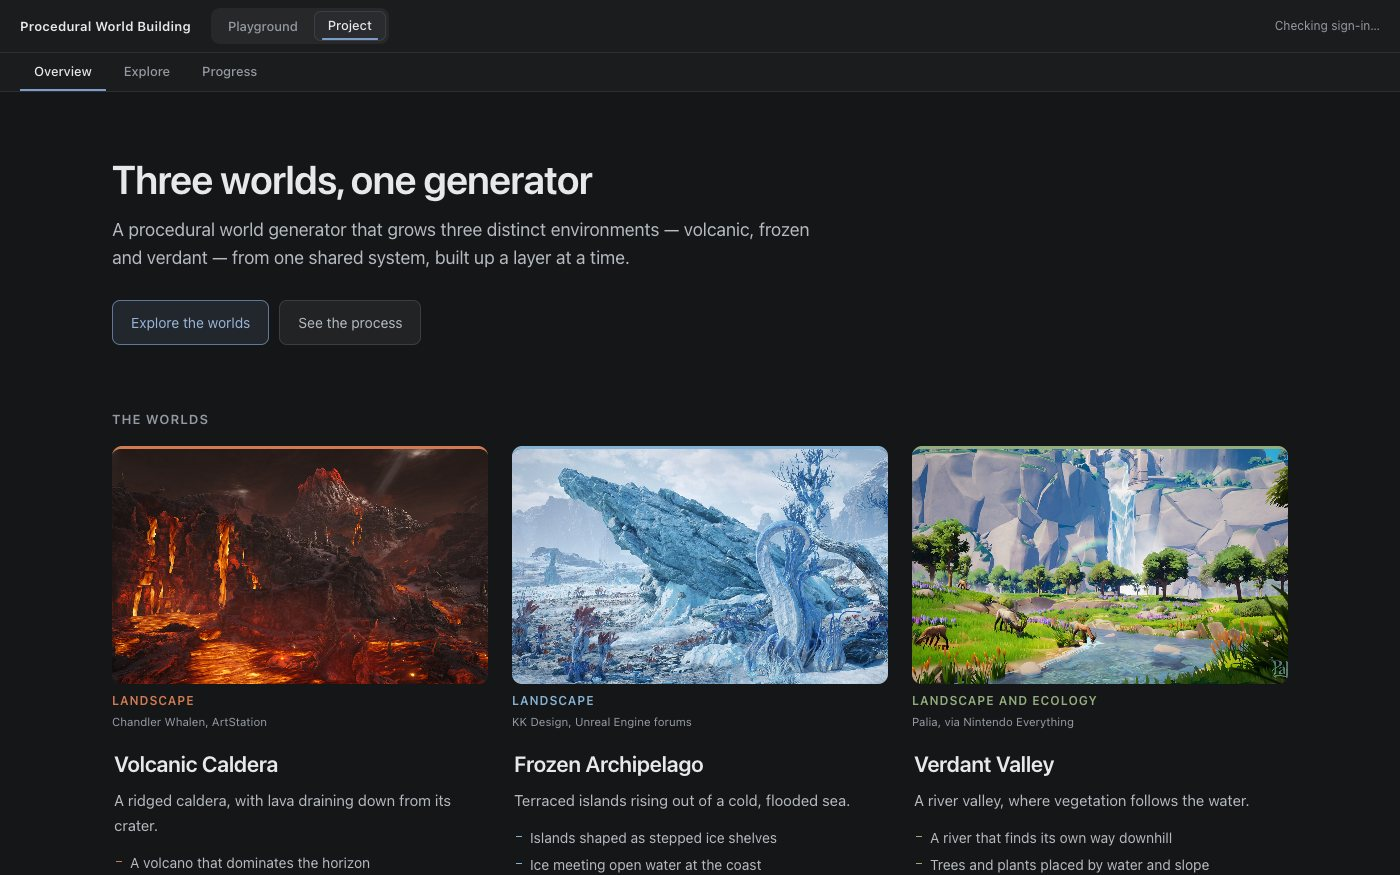
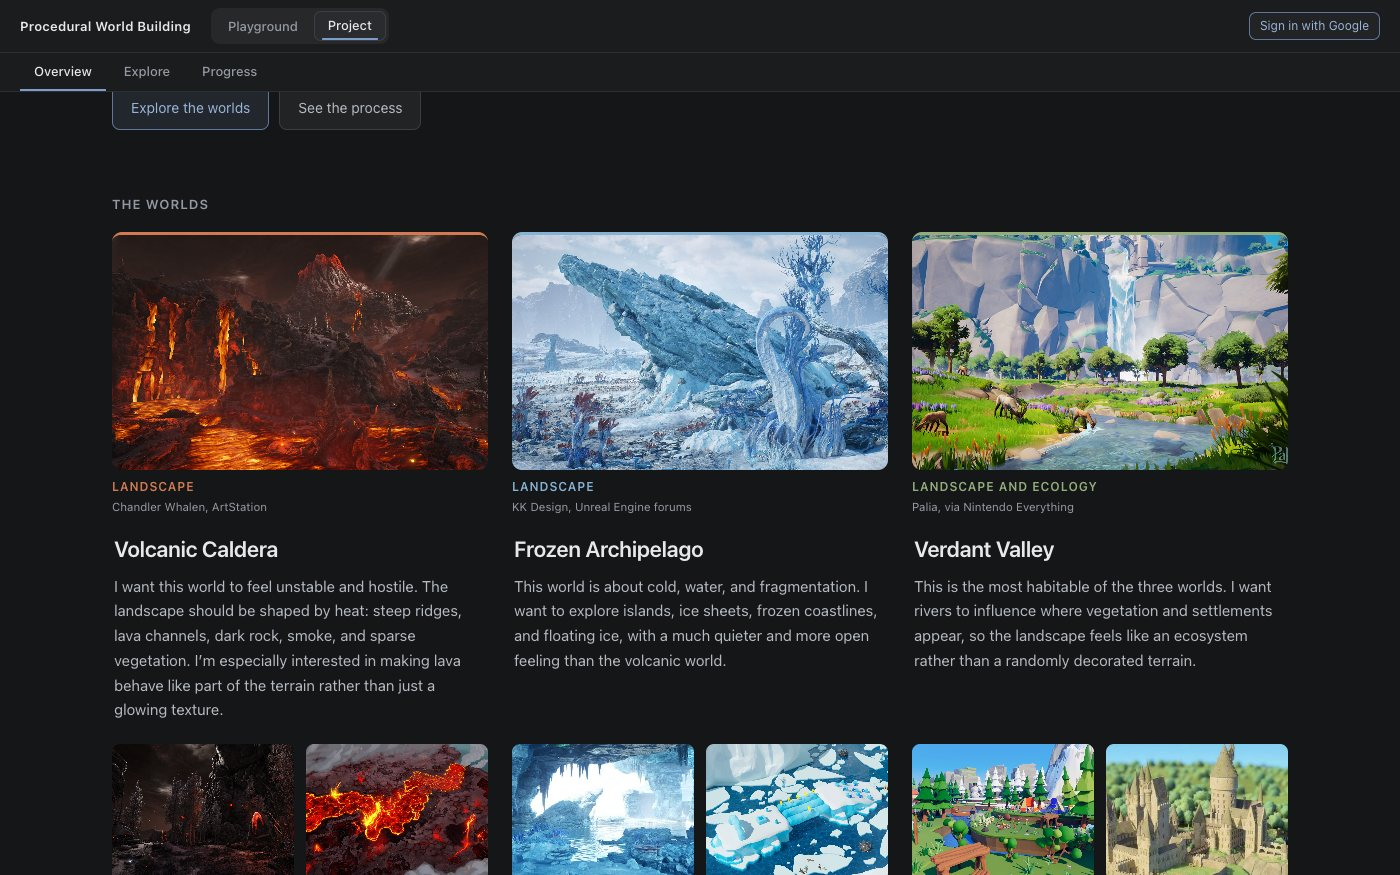
Give the Project Overview a voice of its own
The intro is now a short first-person statement: the worlds differ by
environmental condition — heat, cold, a livable middle — not by palette, and
those conditions are meant to reach the terrain, materials, water, vegetation,
placement and eventually how a player moves. Each card replaces its one-liner
and goal list with what the world is for. A possible-direction section follows
the board — islands a player travels between — and the closing call to action
is gone, since the header already offers Explore.

diff --git a/src/project/ProjectOverview.tsx b/src/project/ProjectOverview.tsx
@@ -13,8 +13,8 @@ type Reference = {
 type World = {
   id: 'volcanic' | 'frozen' | 'verdant'
   name: string
-  line: string
-  goals: string[]
+  /** In the first person: what this world is for, and what it is meant to explore. */
+  intent: string
   hero: Reference
   supporting: [Reference, Reference]
 }
@@ -32,12 +32,8 @@ const WORLDS: World[] = [
   {
     id: 'volcanic',
     name: 'Volcanic Caldera',
-    line: 'A ridged caldera, with lava draining down from its crater.',
-    goals: [
-      'A volcano that dominates the horizon',
-      'Lava that runs in channels, not scattered pools',
-      'Dark rock and a warm, ember-lit atmosphere',
-    ],
+    intent:
+      'I want this world to feel unstable and hostile. The landscape should be shaped by heat: steep ridges, lava channels, dark rock, smoke, and sparse vegetation. I’m especially interested in making lava behave like part of the terrain rather than just a glowing texture.',
     hero: {
       src: '/inspiration/volcanic/volcanic_2.jpg',
       role: 'Landscape',
@@ -62,12 +58,8 @@ const WORLDS: World[] = [
   {
     id: 'frozen',
     name: 'Frozen Archipelago',
-    line: 'Terraced islands rising out of a cold, flooded sea.',
-    goals: [
-      'Islands shaped as stepped ice shelves',
-      'Ice meeting open water at the coast',
-      'Floating ice and a pale, hazy horizon',
-    ],
+    intent:
+      'This world is about cold, water, and fragmentation. I want to explore islands, ice sheets, frozen coastlines, and floating ice, with a much quieter and more open feeling than the volcanic world.',
     hero: {
       src: '/inspiration/frozen/frozen_1.jpg',
       role: 'Landscape',
@@ -92,12 +84,8 @@ const WORLDS: World[] = [
   {
     id: 'verdant',
     name: 'Verdant Valley',
-    line: 'A river valley, where vegetation follows the water.',
-    goals: [
-      'A river that finds its own way downhill',
-      'Trees and plants placed by water and slope',
-      'Stylized low-poly detail, then settlements',
-    ],
+    intent:
+      'This is the most habitable of the three worlds. I want rivers to influence where vegetation and settlements appear, so the landscape feels like an ecosystem rather than a randomly decorated terrain.',
     hero: {
       src: '/inspiration/verdant/verdant_2.jpg',
       role: 'Landscape and ecology',
@@ -212,7 +200,25 @@ export function ProjectOverview({ navigate }: ProjectOverviewProps) {
     <ProjectLayout
       wide
       title="Three worlds, one generator"
-      lede="A procedural world generator that grows three distinct environments — volcanic, frozen and verdant — from one shared system, built up a layer at a time."
+      lede={
+        <>
+          <p>
+            I wanted the three worlds to feel different for more than just their color
+            palettes. Each one represents a different environmental condition: heat, cold,
+            and a more temperate, livable landscape.
+          </p>
+          <p>
+            I’m interested in how those conditions can affect the terrain itself, the
+            materials, water, vegetation, object placement, and eventually even the way a
+            player moves through the world.
+          </p>
+          <p>
+            For now, I’m building them one layer at a time, starting with the landscape.
+            Later, I want to explore how the worlds could connect through travel,
+            collection, or small puzzles.
+          </p>
+        </>
+      }
       aside={
         <div className="project-actions">
           <button type="button" className="project-button is-primary" onClick={explore}>
@@ -239,12 +245,7 @@ export function ProjectOverview({ navigate }: ProjectOverviewProps) {
 
               <div className="board-body">
                 <h3 className="board-name">{world.name}</h3>
-                <p className="board-line">{world.line}</p>
-                <ul className="board-goals">
-                  {world.goals.map((goal) => (
-                    <li key={goal}>{goal}</li>
-                  ))}
-                </ul>
+                <p className="board-intent">{world.intent}</p>
               </div>
 
               <div className="board-refs">
@@ -264,6 +265,16 @@ export function ProjectOverview({ navigate }: ProjectOverviewProps) {
         <p className="project-credit">
           Reference images are other artists' work, collected as inspiration and credited
           under each — not output of this project.
+        </p>
+      </section>
+
+      <section className="project-section project-direction" aria-labelledby="direction-heading">
+        <h2 id="direction-heading">Possible direction</h2>
+        <p>
+          Eventually, these worlds could become separate islands that the player travels
+          between. Their different climates and resources could create reasons to move back
+          and forth, collect materials, or solve puzzles that depend on more than one
+          environment.
         </p>
       </section>
 
@@ -323,12 +334,6 @@ export function ProjectOverview({ navigate }: ProjectOverviewProps) {
         </ol>
       </section>
 
-      <section className="project-section project-closing">
-        <p>Walk all three, in the browser.</p>
-        <button type="button" className="project-button is-primary" onClick={explore}>
-          Explore the worlds
-        </button>
-      </section>
     </ProjectLayout>
   )
 }

diff --git a/src/project/project.css b/src/project/project.css
@@ -64,7 +64,8 @@
   font-size: 40px;
 }
 
-/* A subtitle, so it reads as one line of context rather than a first paragraph. */
+/* A subtitle, so it reads as context rather than a first paragraph. On the
+   Overview it is a short personal statement of several paragraphs. */
 .project-lede {
   max-width: 64ch;
   margin: 0;
@@ -73,8 +74,26 @@
   line-height: 1.55;
 }
 
+.project-lede p {
+  margin: 0 0 14px;
+}
+
+.project-lede p:last-child {
+  margin-bottom: 0;
+}
+
 .project-section {
   margin: 64px 0 0;
+}
+
+/* One idea, set apart from the board above it by a rule rather than a box. */
+.project-direction {
+  padding-top: 32px;
+  border-top: 1px solid var(--border);
+}
+
+.project-direction p {
+  font-size: 16px;
 }
 
 .project-section h2 {
@@ -255,35 +274,11 @@
   letter-spacing: -0.01em;
 }
 
-.board-line {
-  margin: 0 0 14px !important;
+.board-intent {
+  margin: 0 0 22px !important;
   color: var(--text-secondary);
   font-size: 15px;
-}
-
-.board-goals {
-  margin: 0 0 20px;
-  padding: 0;
-  list-style: none;
-  color: var(--text-secondary);
-  font-size: 14px;
-  line-height: 1.5;
-}
-
-.board-goals li {
-  position: relative;
-  padding-left: 16px;
-  margin-bottom: 6px;
-}
-
-.board-goals li::before {
-  content: '';
-  position: absolute;
-  top: 0.62em;
-  left: 2px;
-  width: 6px;
-  height: 1.5px;
-  background: var(--world-accent);
+  line-height: 1.65;
 }
 
 /* Two references under each world, labelled with what they inform. */
@@ -424,21 +419,6 @@
 
 .layer-status.is-next {
   color: var(--text-muted);
-}
-
-.project-closing {
-  display: flex;
-  flex-wrap: wrap;
-  align-items: center;
-  gap: 16px;
-  padding-top: 32px;
-  border-top: 1px solid var(--border);
-}
-
-.project-closing p {
-  margin: 0 !important;
-  color: var(--text-primary) !important;
-  font-size: 18px;
 }
 
 /* ---- Status ---- */

diff --git a/src/project/ProjectLayout.tsx b/src/project/ProjectLayout.tsx
@@ -3,8 +3,8 @@ import './project.css'
 
 type ProjectLayoutProps = {
   title: string
-  /** One line under the title. The page's own argument for existing. */
-  lede: string
+  /** Under the title: the page's own argument for existing. A line, or a few paragraphs. */
+  lede: ReactNode
   /**
    * A wider page, for a board of images rather than a column of prose. The
    * Overview lays three worlds side by side, which a reading measure of 880px
@@ -36,7 +36,7 @@ export function ProjectLayout({ title, lede, wide = false, aside, children }: Pr
       <div className={`project-page${wide ? ' is-wide' : ''}`}>
         <header className="project-head">
           <h1 className="project-title">{title}</h1>
-          <p className="project-lede">{lede}</p>
+          {typeof lede === 'string' ? <p className="project-lede">{lede}</p> : <div className="project-lede">{lede}</div>}
           {aside}
         </header>
         {children}

diff --git a/docs/project/app-structure.md b/docs/project/app-structure.md
@@ -119,20 +119,25 @@ Three pages, each with one job:
 
 A presentation board rather than a reading column — the one page that uses
 `ProjectLayout`'s wide variant, because three worlds side by side at an 880px
-measure shrink to thumbnails.
+measure shrink to thumbnails. It opens in the first person: why the worlds
+differ by environmental condition — heat, cold, a livable middle — rather than
+by palette, and that they are built a layer at a time.
 
-Each world is a hero reference image, a one-line description, three goals and
-two smaller references, and every image is labelled with what it informs —
+Each world is a hero reference image, a short statement of what the world is
+for and what it explores, and two smaller references; every image is labelled
+with what it informs —
 *Landscape*, *Atmosphere*, *Lava behaviour* — because a wall of mood images
 says nothing about what is being built. Colour identifies a world only as an
-accent line on its hero image, its caption and its goal markers; the UI stays
+accent line on its hero image and its caption; the UI stays
 neutral. Captions sit under the images, never on them: the references are busy
 enough that no text over them would be reliably readable.
 
 Below the board, **one pipeline, three worlds**: the five stages down the side,
 the three worlds across, and in each cell what that stage actually does in that
 world today, read off the specs in `src/explore/worlds.ts`. It is the page's
-central claim made checkable. Then **built in layers**, with each layer marked
+central claim made checkable. Before it, **possible direction**: the worlds as
+islands a player travels between, with climates and resources that give reasons
+to cross. Then **built in layers**, with each layer marked
 *In place*, *In progress* or *Next* by what Explore does today.
 
 The reference images live in `public/inspiration/<world>/` so the app and the

diff --git a/README.md b/README.md
@@ -42,10 +42,11 @@ the project asks what happens when they all have to agree on the same ground.
 Three pages, none of them a topic — the project cuts across all of them and is
 numbered by nothing:
 
-- **Overview** — the concept. The three worlds with their reference images,
-  each labelled with what it informs; the one pipeline that produces all
-  three; and the order the layers are being built in, with an honest status
-  on each.
+- **Overview** — the concept, in the first person. Why the three worlds differ
+  by environmental condition rather than palette, each world with its
+  reference images and what it is meant to explore, a possible direction —
+  islands a player travels between — the one pipeline that produces all three,
+  and the order the layers are being built in.
 - **Explore** — the worlds themselves, walkable in the browser. Chunked terrain
   from a hashed height function, landmarks that are terms in that function
   rather than placed meshes, scatter that answers to the ground, and a river
@@ -55,7 +56,7 @@ numbered by nothing:
 - **Progress** — the process. Each Playground topic, what Explore actually uses
   of it today, what it contributes, and what is not there yet.
 
-![The Project Overview: the three worlds side by side, each with a hero reference image, a one-line description, three goals and two labelled supporting references](docs/images/readme-project-overview.jpg)
+![The Project Overview: the three worlds side by side, each with a hero reference image, a short statement of intent, and two labelled supporting references](docs/images/readme-project-overview.jpg)
 
 The worlds are one system, not three scenes. Every difference between them is
 a number in a world spec; the terrain builder, the scatter and the renderer are
